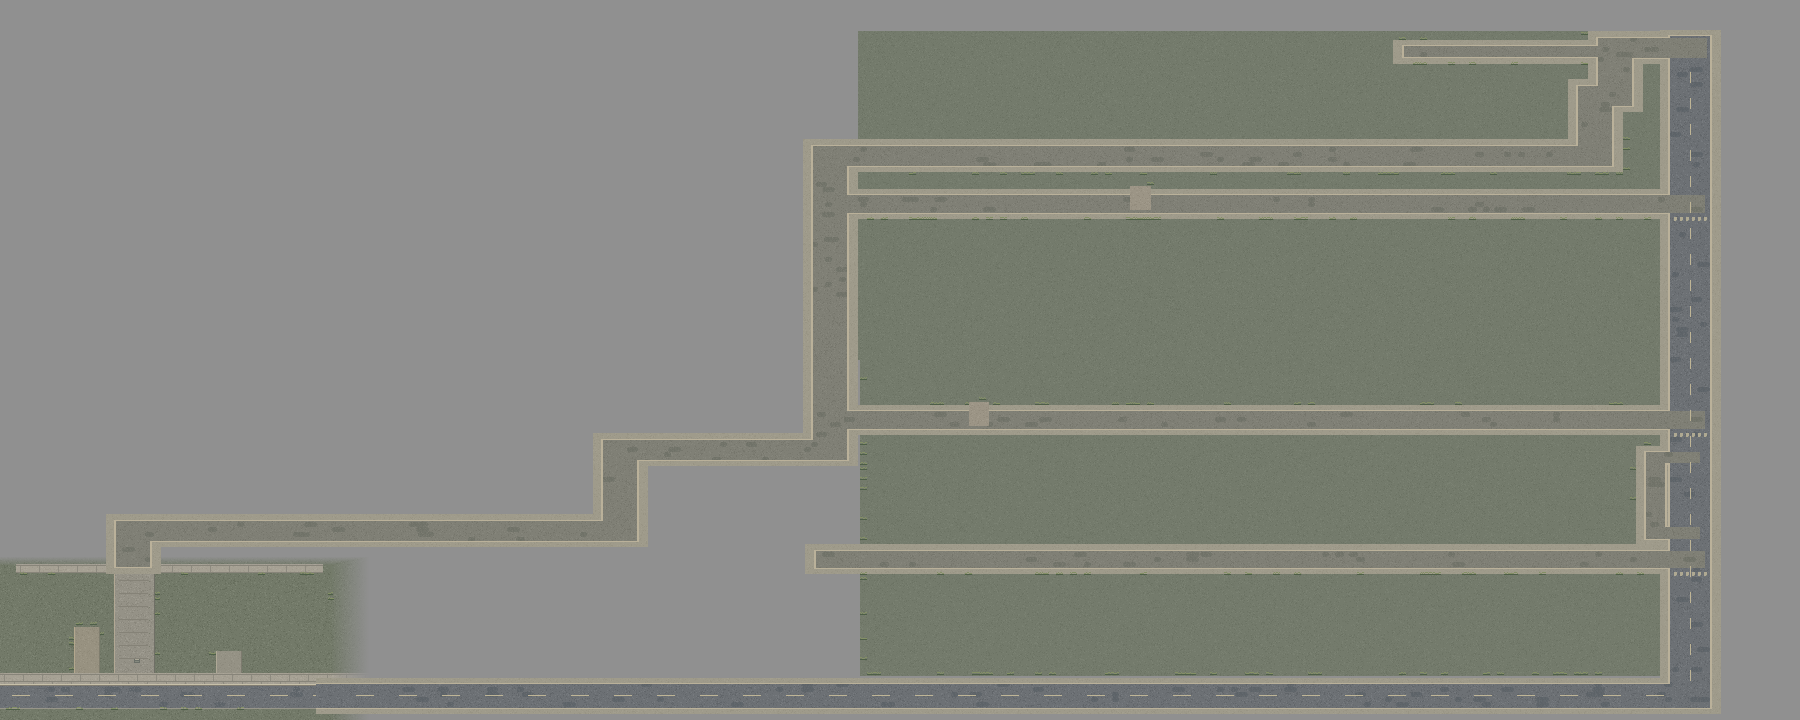
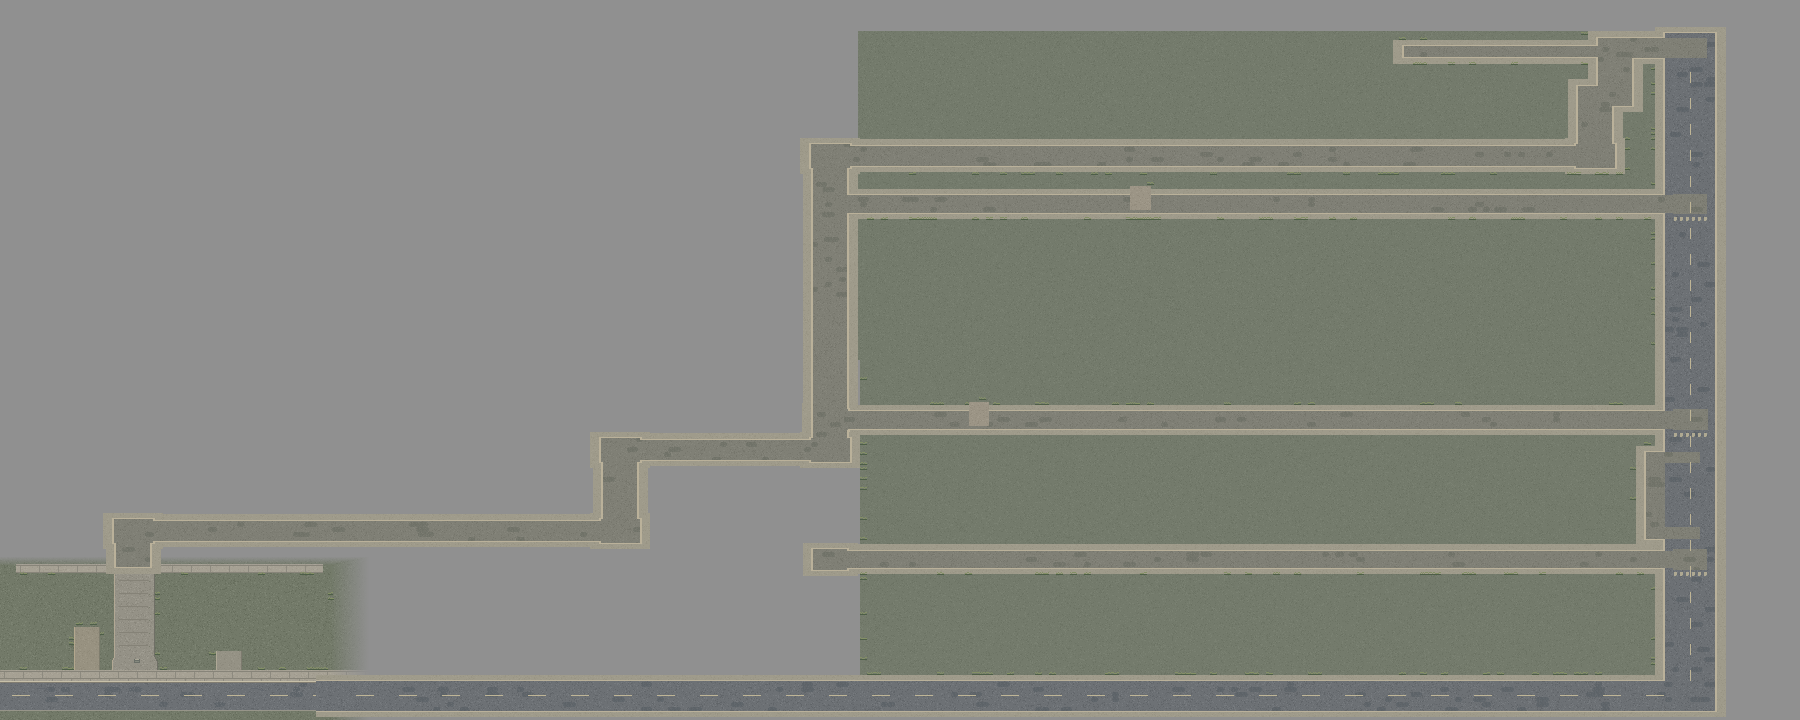
feat: 큰길과 골목 입구 폭 확장

diff --git a/game/tests/test_delivery.py b/game/tests/test_delivery.py
@@ -112,21 +112,18 @@ class DeliveryTests(unittest.TestCase):
     def test_wreck_closes_the_entire_main_road_to_direct_travel(self):
         world = self.world
         road = TOWN_ROADS["main"][0]
+        self.assertEqual(road["width"], 100)
         road_x = road["points"][1][0]
-        half_width = road["width"] / 2
+        west_edge = int(road_x - road["width"] / 2)
+        east_limit = int(world.world_size[0] - PLAYER_RADIUS)
         start, end = TOWN_ROADS["main_detour"]["points"][::3]
-        for x in (road_x - half_width, road_x, road_x + half_width):
+        # Check both paved edges, the gap between cars and the east map margin.
+        for x in range(west_edge, east_limit + 1):
             with self.subTest(x=x):
                 player = Player(x, start[1])
                 move_player(player, 0, 1, (end[1] - start[1]) / WALK_SPEED,
                             world.walls, world_size=world.world_size)
-                self.assertAlmostEqual(player.y, 730 - PLAYER_RADIUS)
-        for x in (3456, world.world_size[0] - PLAYER_RADIUS):
-            with self.subTest(east_margin=x):
-                player = Player(x, start[1])
-                move_player(player, 0, 1, (end[1] - start[1]) / WALK_SPEED,
-                            world.walls, world_size=world.world_size)
-                self.assertLess(player.y, 752)
+                self.assertLess(player.y, end[1])
 
     def test_interaction_cannot_reach_through_wall(self):
         world = self.world

diff --git a/game/main.py b/game/main.py
@@ -419,8 +419,10 @@ class Renderer:
                              ((TOWN_ROADS["main_detour"],), alley_color)):
             for road in roads:
                 points = road["points"]
-                half_width = road["width"] / 2
-                for (ax, ay), (bx, by) in zip(points, points[1:]):
+                segments = [(a, b, road["width"]) for a, b in zip(points, points[1:])]
+                segments.extend((point, point, road["width"] + 10) for point in road.get("junctions", ()))
+                for (ax, ay), (bx, by), road_width in segments:
+                    half_width = road_width / 2
                     west = max(0, min(ax, bx) - half_width)
                     south = max(0, min(ay, by) - half_width)
                     east = min(width, max(ax, bx) + half_width)

diff --git a/PRD.md b/PRD.md
@@ -39,6 +39,7 @@
 
 - 시작할 때 1번 상점 앞 또는 2번 주택 뒷문을 선택합니다. 두 배달 모두 남서쪽 거점에서 택배를 수령합니다.
 - 상점 앞은 가로등으로 주변이 보이지만 좀비가 모여 있습니다. 주택 뒷문은 가로등이 없는 좁은 뒷골목에 있어 손전등과 발소리로 접근합니다.
+- 큰길 폭은 100px입니다. 일반 골목은 입구와 코너에 10px의 여유를 두고, 주택 뒷문 골목의 실제 폭은 60px로 유지합니다.
 - M을 누르면 지도가 열리고 게임이 일시정지됩니다. 지도에 큰길과 골목, 상점·정류장, 건물 윤곽, 현재 위치와 방향, 수령지와 선택한 배송지를 표시합니다.
 - 동쪽 큰길을 가로막은 폐차 두 대는 주택 옆 골목으로 우회합니다. 폐차와 우회 골목은 M 지도에 표시합니다.
 - 거점과 배송함의 42px 안에서 벽이 가리지 않을 때 E로 상호작용합니다. 현장 표식과 가까운 E 안내는 손전등이나 가로등 빛이 닿을 때 나타납니다.
